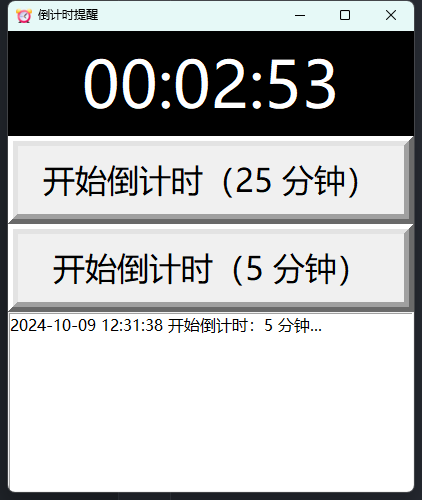
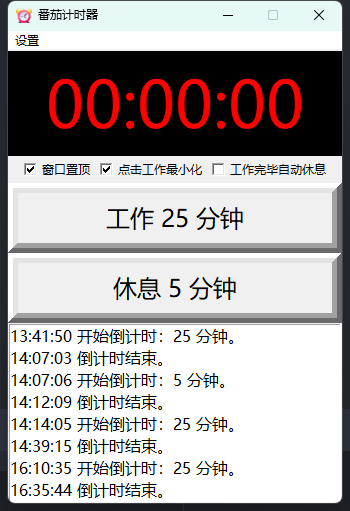
更新

diff --git a/README.md b/README.md
@@ -1,3 +1,8 @@
 # tomato_clock
 番茄计时器
 ![img.png](img.png)
+
+# 2024-10-16 更新内容
+1. 置顶显示
+2. 点击工作，直接最小化
+3. 工作完毕，自动休息
